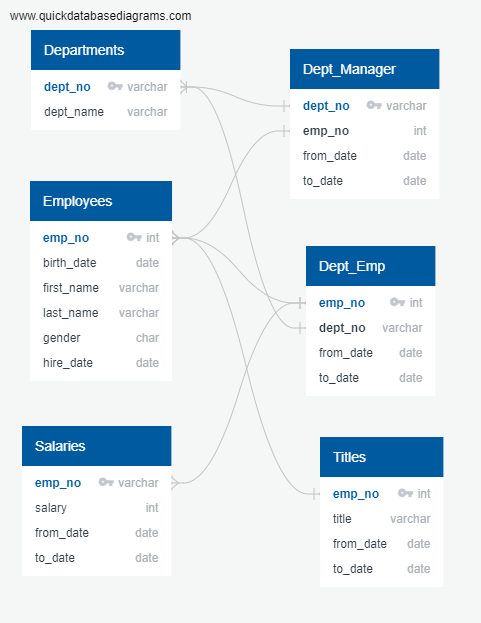
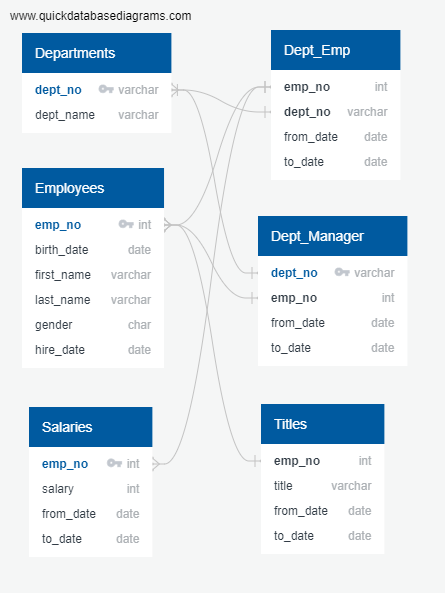
Initial draft README.md.  Updated EmployeeDB.png

diff --git a/README.md b/README.md
@@ -1,1 +1,104 @@
-# Pewlett-Hackard-Analysis
+# Pewlett-Hackard Succession Planning Analysis
+
+### Overview
+A major employer has decided to modernize their employee-data systems, moving from spreadsheets to a relational database.  It is expected that this transition will enable better visibility into the employee population and allow succession planning around the retirement of older employees.
+
+## Analysis Process
+The analysis consisted of a review of the six comma-separated-value (CSV) files that the company has provided as input into the new database.  The review revealed that the majority of the files contain several thousands of entries and each includes data headers.
+
+### CSV Input Files
+The following files were provided for input:
+
+* departments.csv - provides department names and an identification number for each department.
+* dept_emp.csv -  identifies the employee numbers within each department number, with from & to dates.
+* dept_manager.csv - identifies the department managers by employee number, with from & to dates.
+* employees.csv - provides employee names, birthdates, gender, and their hire date with their employee number.
+* salaries.csv - provides the employee salary with employee number and from & to dates.
+* titles.csv - identifies the employee titles, by employee number with from & to dates.
+
+### Entity Relationship Diagram
+Using the CSV input files, an Entity Relationship Diagram was constructed to begin planning the database implementation. 
+
+![Entity Relationship Diagram](EmployeeDB.png)
+
+
+THe company selected the PostgreSQL database engine for their new system. Using PGAdmin4, a new database was created. The data tables were then built in accordance with the Entity Relationship Diagram.
+
+As the CSV files were being imported, it was discovered that there were two tables that needed to be dropped and rebuilt without primary keys.  The data in the CSV files contained many instances of multiple entries within the data destined to be the primary key for the tables.  The diagram above was updated to its current state to reflect the table structure, as implemented.
+
+# Results
+
+It was necessary to query and build new tables to explore the accumulated data, and begin to provide answers to the questions from management.
+
+The following queries were created:
+
+* Determine the retirement eligible population, based on employee age and hire date.
+	* 41,380 employees are eligible for retirement based on their age.
+	* A new table ```retirement_info``` was created to contain the list of eligible employees.
+	* The table data was exported into a CSV file - ```(Data\retirement_info.csv)```
+	* This data requires additional investigation, as some or many of the employees may have already left the company.
+	
+* Determine the retirement eligible employee population that is still with the company.
+	* A new table for current employees -  ```current_emp``` was created by joining the ```retirement_info``` table with the ```dept_emp``` table and filtering on whether the ```dept_emp.to_date``` indicates a current employee.
+	
+* Determine the number of retirement eligible employees by department.
+	* A query using a left join was written to combine the data from the current employee table with the ```dept_emp``` table to identify the employee department and provide a count of these employees by department.
+	* A new table ```employee_counts_by_dept``` was created during the query execution, and the data was exported into a CSV file - ```(Data\employee_counts_by_dept.csv)```
+	
+* Collect the retirement-eligible employee information into a single table
+	* The following query was written to perform this task and store the results into a new ```emp_info``` table.
+	
+```
+-- Employee list 1
+select e.emp_no, e.first_name, e.last_name, e.gender, s.salary, de.to_date
+	into emp_info
+	from employees as e
+	inner join salaries as s
+		on (e.emp_no = s.emp_no)
+	inner join dept_emp as de
+		on (e.emp_no = de.emp_no)
+	where (e.birth_date between '1952-01-01' and '1955-12-31')
+	and (e.hire_date between '1985-01-01' and '1988-12-31')
+	and (de.to_date = '9999-01-01');
+```
+
+* Determine the number of retirement-eligible managers per department
+	* The following query was written to perform this task and store the results into a new ```manager_info``` table.
+
+```
+-- List (2) of managers per department
+select dm.dept_no,
+	d.dept_name,
+	dm.emp_no,
+	ce.last_name,
+	ce.first_name,
+	dm.from_date,
+	dm.to_date
+into manager_info
+from dept_manager as dm
+	inner join departments as d
+		on (dm.dept_no = d.dept_no)
+	inner join current_emp as ce
+		on (dm.emp_no = ce.emp_no);
+```
+* Determine the number of retiring employees by title
+
+
+	
+* Determine the employees available to participate in a mentorship program
+	
+
+
+
+
+
+
+
+The analysis should contain the following:
+
+    Overview of the analysis: Explain the purpose of this analysis.
+    Results: Provide a bulleted list with four major points from the two analysis deliverables. Use images as support where needed.
+    Summary: Provide high-level responses to the following questions, then provide two additional queries or tables that may provide more insight into the upcoming "silver tsunami."
+        How many roles will need to be filled as the "silver tsunami" begins to make an impact?
+        Are there enough qualified, retirement-ready employees in the departments to mentor the next generation of Pewlett Hackard employees?
+
